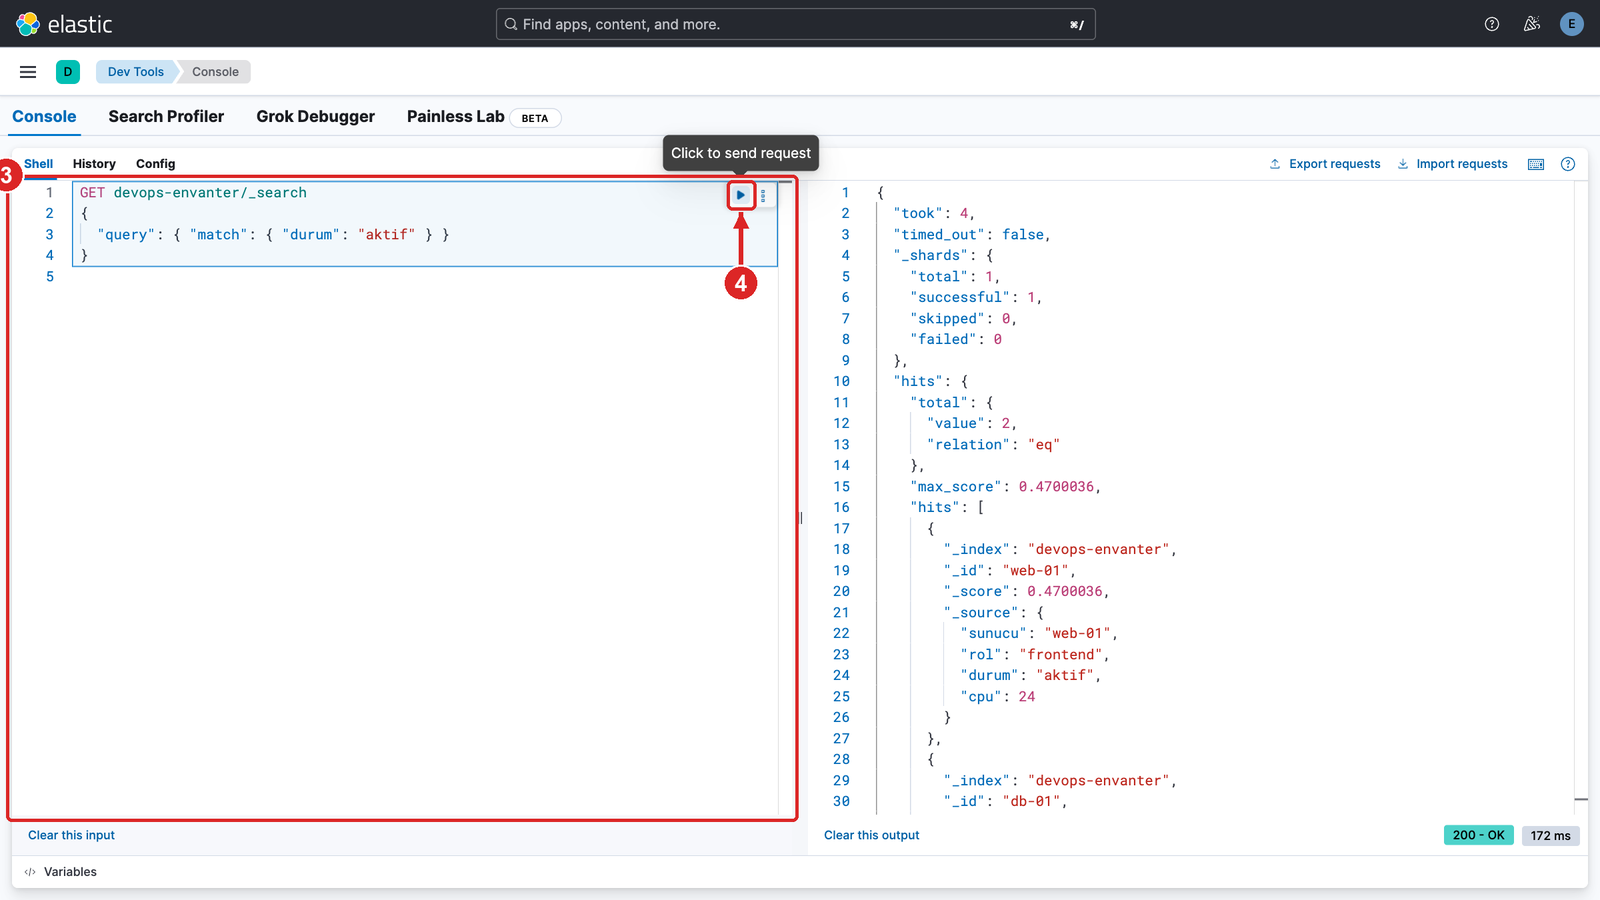
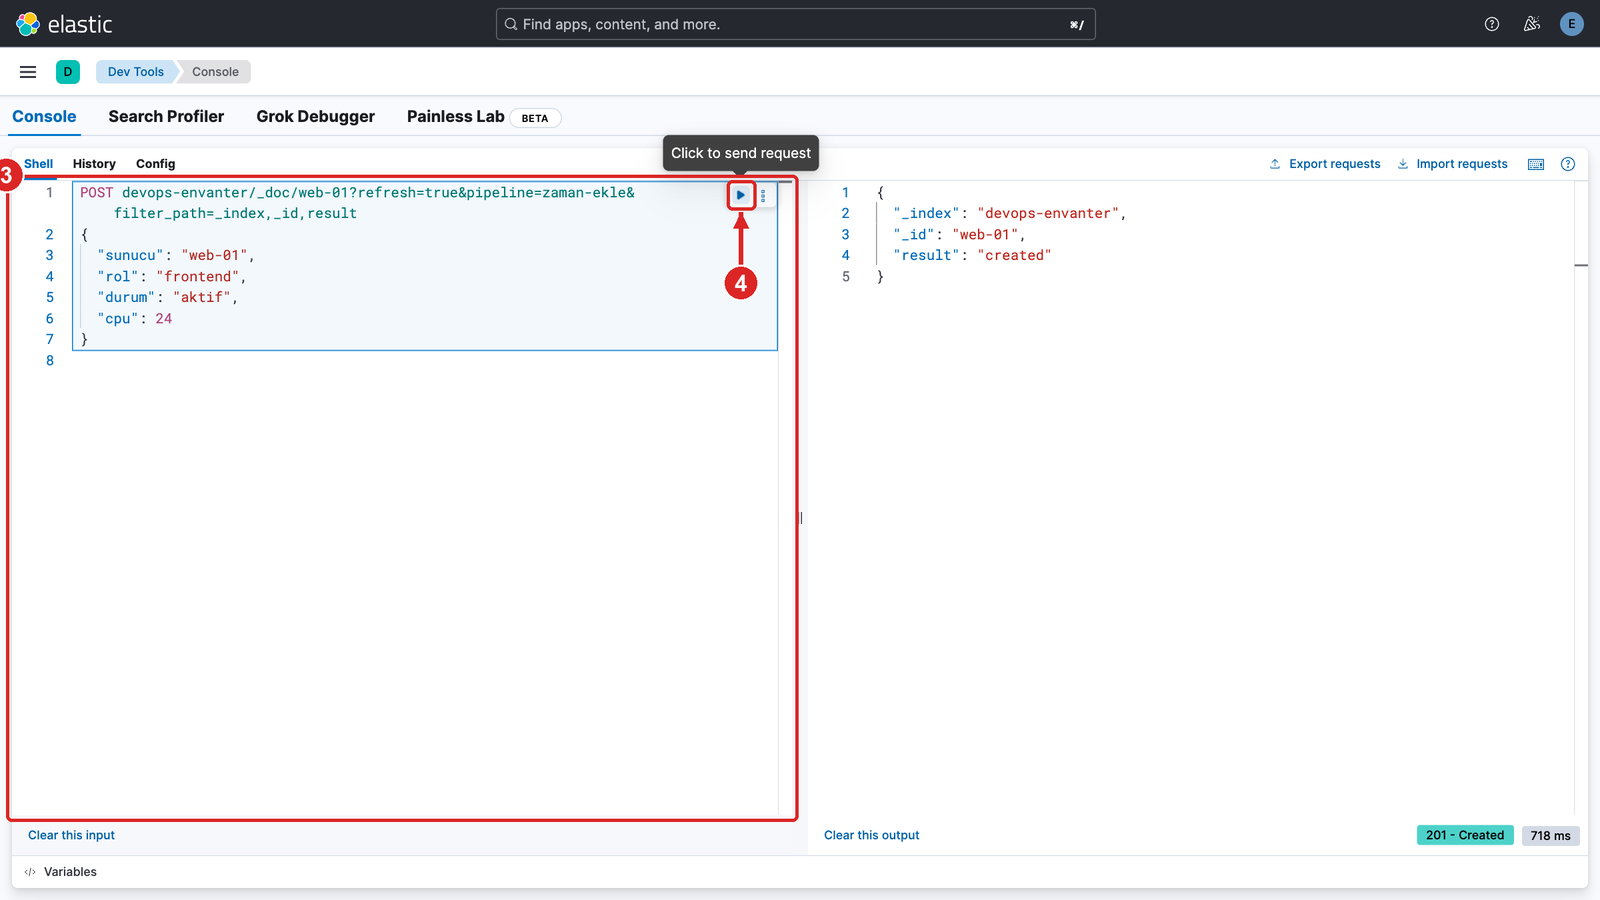
Restructure ELK labs: Kibana in every lab, sample data before ingestion
New order: 01 setup + Dev Tools + Discover, 02 sample data (KQL, ES|QL,
dashboards), 03 Filebeat, 04 grok + search + Lens, 05 Kubernetes,
06 SIEM, 07 cluster health/ILM.

- LAB-01: CRUD in Kibana Dev Tools; ingest pipeline adds @timestamp;
  data view + Discover; document without @timestamp shown missing
- LAB-02: demo-* data, 3 dashboards, Discover KQL, ES|QL in Discover
  and Dev Tools (real outputs, fixed seed)
- LAB-03: data views system-logs-* / docker-logs-*, raw message limits
- LAB-04: Grok Debugger, KQL/ES|QL on parsed fields, 2-panel Lens
  dashboard and its script copy (scripts/create_dashboard.py)
- LAB-05: k8s data view, Discover by app label, multiline doc view
- Text tightened: what each step does and why, no cross-lab deferrals

Bugs found in clean-server run and fixed:
- KQL `kubernetes.pod.name : payment-service*` returns nothing (text
  field); use `kubernetes.labels.app : "payment-service"`
- nginx ES|QL ran before new requests were indexed; added sleep 15
- search outputs now include pipeline @timestamp (real values)

Verification on student103 (clean install, README blocks + UI clicks):
01 18/18, 02 5/5, 03 8/9 (rc=255 = refused ssh, expected),
04 12/12, 05 9/9; 21 new/updated screenshots. 06 and 07 unchanged
since last full pass.

diff --git a/scripts/screenshots/kibana_shots.py b/scripts/screenshots/kibana_shots.py
@@ -229,8 +229,8 @@ def lab01b(page):
     page.get_by_role("option").filter(has_text=re.compile(r"^DevOps Envanter")).first.click(); settle(page, 6)
     shoot(page, lab, "04-discover", [
         (tid("discover-dataView-switch-link"), 10, "down"),
-        (tid("unifiedHistogramChart"), 11, "down"),
-        (tid("discoverDocTable"), 12, "up"),
+        (tid("unifiedHistogramChart"), 11, None),
+        (tid("discoverDocTable"), 12, None),
     ])
 
 
@@ -397,8 +397,8 @@ def lab05ui(page):
     kibana_delete_by_title(page, "index-pattern", "Kubernetes Logları")
     create_data_view_ui(page, "Kubernetes Logları", "k8s-logs-*")
     page.locator('[data-test-subj="saveIndexPatternButton"]').click(); settle(page, 4)
-    discover_with(page, "Kubernetes Logları", 'kubernetes.pod.name : payment-service* and message : "Traceback"', "now-1h")
-    page.locator('[data-test-subj="docTableExpandToggleColumn"]').first.click(); settle(page, 4)
+    discover_with(page, "Kubernetes Logları", 'kubernetes.labels.app : "payment-service" and message : "Traceback"', "now-2h")
+    page.get_by_role("button", name="Toggle dialog with details").first.click(); settle(page, 4)
     shoot(page, lab, "01-discover-k8s", [
         (tid("discover-dataView-switch-link"), 1, "down"),
         (tid("queryInput"), 2, "down"),

diff --git a/02-kibana-sample-data/README.md b/02-kibana-sample-data/README.md
@@ -17,7 +17,7 @@
 
 ## Mimari ve Çalışma Modeli
 
-Kendi loglarınızı toplamadan önce aramayı ve panoları zengin bir veriyle öğrenmek için örnek veri kullanılır. Veri sentetiktir ama gerçek loglara benzer: servis adları, HTTP durum kodları, yanıt süreleri, SSH denemeleri, pod olayları, pipeline sonuçları.
+Kendi loglarınızı toplamadan önce aramayı ve panoları hazır, gerçeğe benzer bir veriyle öğrenirsiniz.
 
 | Kavram | Ne işe yarar |
 |---|---|
@@ -31,8 +31,8 @@ Veriyi ve panoları `scripts/` klasöründeki iki betik kurar:
 
 | Betik | Ne yapar |
 |---|---|
-| `generate_demo_data.py` | Dört index'i (`demo-app-logs`, `demo-security-logs`, `demo-k8s-logs`, `demo-cicd-logs`) silip yeniden oluşturur ve son 24 saate yayılmış belgeler yazar. Alan türlerini (sayı, IP, keyword) baştan belirler; böylece gruplama ve aralık sorguları doğru çalışır. Sabit bir rastgele tohum kullandığı için sayılar her kurulumda aynıdır. |
-| `create_dashboards.py` | Dört data view'ı ve üç panoyu Kibana API'siyle kurar. Panelleri `lens_builder.py` ile üretir ve göndermeden önce doğrular. |
+| `generate_demo_data.py` | Dört `demo-*` index'ini yeniden oluşturur, son 24 saate yayılmış belgeler yazar. Alan türlerini baştan belirler; sayılar her kurulumda aynıdır. |
+| `create_dashboards.py` | Data view'ları ve üç panoyu Kibana API'siyle kurar. |
 
 ## Adım Adım Uygulama Rehberi
 
@@ -80,14 +80,14 @@ Kibana menüsünden **Analytics > Dashboards**'u açın. Üç pano listededir (1
 | Güvenlik: SSH ve Firewall | Kaç başarısız SSH girişi var, hangi IP'ler deniyor, hangi kullanıcı adları deneniyor? |
 | Kubernetes ve CI/CD | Kaç OOMKilled var, hangi namespace'te sorun var, pipeline'ların yüzde kaçı başarısız, hangi stage yavaş? |
 
-Zaman seçicisini (2) **Last 1 hour** yapın: bütün paneller aynı anda yalnız son bir saati gösterir. Bir grafikteki çubuğa tıklarsanız o değer bütün panoya filtre olarak eklenir; filtreyi üstteki çubuktan kaldırabilirsiniz.
+Zaman seçicisini (2) değiştirince bütün paneller birlikte güncellenir. Bir çubuğa tıklamak o değeri bütün panoya filtre olarak ekler.
 
 ### 3. Discover'da KQL ile arama
 
 1. Menüden **Analytics > Discover**'ı açın.
 2. Data view seçicisinden (4) **Demo Uygulama Logları**'nı seçin.
 3. Zaman aralığını (5) **Last 24 hours** yapın.
-4. Arama çubuğuna (6) aşağıdaki sorguyu yazıp Enter'a basın. Belge sayısı (7) ve zaman grafiği yalnız 5xx hatalarını gösterecek şekilde değişir:
+4. Arama çubuğuna (6) yazıp Enter'a basın; belge sayısı (7) yalnız 5xx hatalarını gösterir:
 
 ```text
 http.response.status_code >= 500
@@ -95,7 +95,7 @@ http.response.status_code >= 500
 
 ![Discover KQL](../assets/screenshots/LAB-ELK-02/03-discover-kql.png){width=75%}
 
-Başka sorgular deneyin. Her birinde sağ üstteki belge sayısının nasıl değiştiğine bakın:
+Başka sorgular deneyin:
 
 | Soru | KQL |
 |---|---|
@@ -108,12 +108,12 @@ KQL belgeleri süzer, ama "hangi servis kaç hata verdi" gibi sayım yapamaz. Bu
 
 ### 4. ES|QL ile hesaplama
 
-ES|QL sorgusu bir kaynakla (`FROM`) başlar ve her `|` sonrası komut bir öncekinin sonucunu işler: `WHERE` süzer, `STATS ... BY` gruplayıp hesaplar, `SORT` sıralar, `LIMIT` satır sayısını sınırlar.
+ES|QL `FROM` ile başlar; her `|` bir öncekinin sonucunu işler: `WHERE` süzer, `STATS ... BY` gruplayıp hesaplar, `SORT` sıralar, `LIMIT` sınırlar.
 
 **Discover'da:**
 
-1. Discover'da üstteki **Try ES|QL**'e (8, önceki görüntüde) tıklayın. Arama çubuğu ES|QL sorgu kutusuna dönüşür.
-2. Sorgu kutusuna (9) aşağıdaki sorguyu yazıp sağ üstteki **Refresh**'e (10) basın ya da `Ctrl+Enter` (Mac'te `Cmd+Enter`) kullanın. Sonuç belge listesi yerine tablo olarak gelir:
+1. Discover'da **Try ES|QL**'e (8, önceki görüntüde) tıklayın.
+2. Sorguyu kutuya (9) yazıp **Refresh**'e (10) ya da `Ctrl+Enter`'a basın; sonuç tablo olarak gelir:
 
 ```text
 FROM demo-app-logs
@@ -124,11 +124,11 @@ FROM demo-app-logs
 
 ![Discover ES|QL](../assets/screenshots/LAB-ELK-02/04-discover-esql.png){width=75%}
 
-Discover, sağ üstteki zaman aralığını (son 24 saat) ES|QL sorgusuna da uygular. Örnek veri tam 24 saate yayıldığı için en eski birkaç belge bu aralığın dışında kalır; bu yüzden Discover'daki sayılar aşağıda Dev Tools'ta göreceğiniz sayılardan biraz küçük olabilir. Discover'dan çıkıp **Classic**'e dönmek için sağ üstteki **Switch to classic**'e tıklayın.
+Discover zaman aralığını ES|QL'e de uygular; en eski birkaç belge dışarıda kaldığı için sayılar Dev Tools'takinden biraz küçük olabilir. Normal Discover'a **Switch to classic** ile dönersiniz.
 
-**Dev Tools'ta:** Aynı sorgular `_query` API'siyle de çalışır; `format=txt` sonucu tablo olarak verir. Dev Tools'taki sorguda zaman filtresi yoktur, bütün belgeler sayılır. Menüden **Management > Dev Tools**'u açıp istekleri tek tek çalıştırın.
+**Dev Tools'ta:** Aynı sorgular `_query` API'siyle çalışır; `format=txt` tablo verir, zaman filtresi yoktur.
 
-Servis başına 5xx hata sayısı (Discover'daki sorgunun aynısı):
+Servis başına 5xx hata sayısı:
 
 ```http
 POST _query?format=txt
@@ -147,7 +147,7 @@ POST _query?format=txt
 67             |frontend       
 ```
 
-En çok başarısız SSH girişi deneyen 5 IP. Sorgunun içindeki çift tırnaklar JSON içinde olduğu için `\"` ile yazılır:
+En çok başarısız SSH girişi deneyen 5 IP (JSON içindeki tırnaklar `\"` ile yazılır):
 
 ```http
 POST _query?format=txt
@@ -165,7 +165,7 @@ POST _query?format=txt
 224            |45.154.255.89  
 ```
 
-Endpoint başına istek sayısı ve p95 yanıt süresi. `PERCENTILE(..., 95)`, isteklerin yüzde 95'inin bu sürenin altında kaldığını söyler; ortalamadan farklı olarak yavaş isteklerin etkisini gizlemez:
+Endpoint başına istek sayısı ve p95 süre (isteklerin %95'i bu sürenin altında kalır; ortalama yavaş istekleri gizler, p95 gizlemez):
 
 ```http
 POST _query?format=txt
@@ -185,7 +185,7 @@ POST _query?format=txt
 492            |236.0          |/healthz        
 ```
 
-Bu üç tablo, Adım 2'deki panoda gördüğünüz panellerin arkasındaki hesaplamadır: "En çok 5xx veren servisler" ilk sorguyu, "Endpoint bazında istek ve p95 süre" üçüncü sorguyu çizer.
+Adım 2'deki panolar bu hesaplamaları çizer.
 
 ## Temizlik
 

diff --git a/03-filebeat-host-docker/README.md b/03-filebeat-host-docker/README.md
@@ -158,11 +158,11 @@ curl -s -u elastic:'DevOps2026!' "http://localhost:9200/docker-logs-*/_search?si
 
 ### 4. Logları Kibana'da görme
 
-Loglar Elasticsearch'te, ama Kibana onları henüz göstermez: Discover bir **data view** olmadan index okumaz. Her log kaynağı için bir data view oluşturun.
+Loglar Elasticsearch'te ama Discover bir **data view** olmadan göstermez. Her kaynak için bir data view oluşturun.
 
 1. Menüden **Management > Stack Management > Data Views**'a gidin ve **Create data view**'a tıklayın.
 2. **Name** (1): `Sistem Logları`
-3. **Index pattern** (2): `system-logs-*`. Logstash her gün yeni bir index açar (`system-logs-2026.11.19`, `system-logs-2026.11.20`…); `*` hepsini kapsar. Sağda eşleşen index listelenir.
+3. **Index pattern** (2): `system-logs-*` (Logstash her gün yeni index açar; `*` hepsini kapsar).
 4. **Timestamp field** (3): `@timestamp`.
 5. **Save data view to Kibana**'ya (4) tıklayın.
 
@@ -173,20 +173,20 @@ Loglar Elasticsearch'te, ama Kibana onları henüz göstermez: Discover bir **da
 Şimdi Discover'da arayın:
 
 1. Menüden **Analytics > Discover**'ı açın, data view seçicisinden (5) **Sistem Logları**'nı seçin.
-2. Zaman aralığını **Last 1 hour** yapın. Filebeat eski satırları da gönderdiği için daha geniş aralıkta binlerce satır görünür.
+2. Zaman aralığını **Last 1 hour** yapın.
 3. Arama çubuğuna (6) yazıp Enter'a basın:
 
 ```text
 message : "Invalid user"
 ```
 
-4. Sol listedeki alanlara (7) bakın: `message`, `log.file.path`, `fields.log_source`, `host.name` gibi Filebeat'in eklediği alanlar var, ama kullanıcı adı ya da IP için ayrı alan yok.
+4. Sol listedeki alanlara (7) bakın: kullanıcı adı ya da IP için ayrı alan yok, her şey `message` içinde.
 
    ![Discover sistem logları](../assets/screenshots/LAB-ELK-03/02-discover-system.png){width=75%}
 
-Bu ham hâlin sınırıdır: "Invalid user" geçen satırları bulabilirsiniz, ama "hangi IP kaç kez denedi" sorusunu soramazsınız; IP satırın içinde metin olarak durur. Bunun için satırın Logstash'te alanlara ayrılması gerekir.
+Satırları bulabilirsiniz ama "hangi IP kaç kez denedi" diye sayamazsınız; bunun için satırın Logstash'te alanlara ayrılması gerekir.
 
-Data view'ı **Docker Logları** yapın ve şu sorguyu deneyin; test container'ının üç satırı listelenir. `container.name` alanını Filebeat'in autodiscover özelliği eklediği için Docker loglarında container'a göre süzmek bu aşamada da mümkündür:
+Data view'ı **Docker Logları** yapıp container'a göre süzün (`container.name`'i Filebeat ekledi):
 
 ```text
 container.name : "demo-worker"

diff --git a/05-kubernetes-logs/README.md b/05-kubernetes-logs/README.md
@@ -171,17 +171,17 @@ curl -s -u elastic:'DevOps2026!' "http://localhost:9200/k8s-logs-*/_count?q=mess
 
 1. **Management > Stack Management > Data Views > Create data view** ile yeni data view oluşturun: **Name** `Kubernetes Logları`, **Index pattern** `k8s-logs-*`, **Timestamp field** `@timestamp`, **Save data view to Kibana**.
 2. **Analytics > Discover**'da data view olarak (1) **Kubernetes Logları**'nı seçin, zaman aralığını **Last 1 hour** yapın.
-3. Arama çubuğuna (2) yazıp Enter'a basın. `kubernetes.pod.name` alanını Filebeat'in Kubernetes metadata işlemcisi ekledi; `payment-service*` deployment'ın bütün pod'larını kapsar (pod adının sonundaki rastgele ek her yeniden başlatmada değişir):
+3. Arama çubuğuna (2) yazın. `kubernetes.labels.app`, pod'un `app` etiketidir ve deployment'ın bütün pod'larında aynıdır; pod adı ise her yeniden başlatmada değişir:
 
 ```text
-kubernetes.pod.name : payment-service* and message : "Traceback"
+kubernetes.labels.app : "payment-service" and message : "Traceback"
 ```
 
-4. Bir satırın solundaki ok simgesine tıklayıp belgeyi açın (3). `message` alanında hata yığınının dört satırı tek belgede alt alta durur; `kubernetes.namespace`, `kubernetes.node.name`, `kubernetes.container.name` alanları da aynı belgede.
+4. Bir satırı açın (3): `message` içinde hata yığınının dört satırı ve `kubernetes.*` alanları tek belgededir.
 
    ![Discover Kubernetes](../assets/screenshots/LAB-ELK-05/01-discover-k8s.png){width=75%}
 
-Pod'a, namespace'e ya da node'a göre süzmek, `kubectl logs` ile tek tek pod'a bakmaktan farklı olarak bütün cluster'ın logunu tek ekranda ve geçmişe dönük arar; pod silinse de logu Elasticsearch'te kalır.
+`kubectl logs`'tan farkı: bütün cluster'ın logu tek ekranda ve geçmişe dönük aranır; pod silinse de log kalır.
 
 ## Temizlik
 

diff --git a/04-logstash-grok/README.md b/04-logstash-grok/README.md
@@ -230,13 +230,35 @@ POST _query?format=txt
 }
 ```
 
+Örnek çıktı (bu sunucuda internetten gelen bir IP ve sizin denemeniz):
+
+```text
+    deneme     |   source.ip   
+---------------+---------------
+23             |109.160.32.132 
+1              |127.0.0.1      
+```
+
 Panoda veri olsun diye Nginx'e birkaç istek atın (`/` 200, diğerleri 404 döner):
 
 ```bash
 for p in / /urunler /sepet / /iletisim /urunler /; do
   curl -s -o /dev/null -w "%{http_code} $p\n" "http://localhost:8081$p"
 done
+sleep 15
 ```
+
+```text
+200 /
+404 /urunler
+404 /sepet
+200 /
+404 /iletisim
+404 /urunler
+200 /
+```
+
+`sleep 15`, istek satırlarının Filebeat ve Logstash üzerinden Elasticsearch'e ulaşması için süre tanır.
 
 Nginx isteklerini durum koduna göre sayın; `IS NOT NULL`, grok öncesi satırları dışarıda bırakır:
 
@@ -246,6 +268,8 @@ POST _query?format=txt
   "query": "FROM docker-logs-* | WHERE container.name == \"demo-nginx\" AND http.response.status_code IS NOT NULL | STATS istek = COUNT(*) BY http.response.status_code | SORT istek DESC"
 }
 ```
+
+Çıktıda iki satır görünür: `404` (döngüdeki 4 istek ve Adım 5'teki istek) ve `200` (ana sayfaya atılan 3 istek).
 
 ### 8. Lens ile pano
 
@@ -270,6 +294,12 @@ POST _query?format=txt
 ```bash
 cd ~/elk-lab/04-logstash-grok
 python3 scripts/create_dashboard.py
+```
+
+```text
+[+] Data view: Betik: Sistem Logları (system-logs-*)
+[+] Data view: Betik: Docker Logları (docker-logs-*)
+[+] Pano: SSH ve Nginx (betik)  ->  /app/dashboards#/view/grok-ssh-nginx
 ```
 
 **Analytics > Dashboards**'ta iki panoyu yan yana açın; aynı sayıları gösterirler.

diff --git a/01-elk-stack-setup/README.md b/01-elk-stack-setup/README.md
@@ -213,10 +213,11 @@ GET devops-envanter/_search?filter_path=hits.hits._source
     "hits": [
       {
         "_source": {
-          "sunucu": "web-01",
-          "rol": "frontend",
           "durum": "aktif",
-          "cpu": 24
+          "@timestamp": "2026-11-19T21:12:49.145021204Z",
+          "cpu": 24,
+          "sunucu": "web-01",
+          "rol": "frontend"
         }
       }
     ]
@@ -239,10 +240,11 @@ GET devops-envanter/_search?filter_path=hits.hits._source
     "hits": [
       {
         "_source": {
-          "sunucu": "db-01",
-          "rol": "database",
           "durum": "bakimda",
-          "cpu": 71
+          "@timestamp": "2026-11-19T21:12:57.622635981Z",
+          "cpu": 71,
+          "sunucu": "db-01",
+          "rol": "database"
         }
       }
     ]
@@ -265,7 +267,7 @@ POST devops-envanter/_update/db-01?refresh=true&filter_path=result
 }
 ```
 
-Belgeyi kimliğiyle okuyun:
+Belgeyi kimliğiyle okuyun. `@timestamp` pipeline'ın eklediği kayıt anıdır; sizde farklı olur:
 
 ```http
 GET devops-envanter/_doc/db-01?filter_path=_source
@@ -274,10 +276,11 @@ GET devops-envanter/_doc/db-01?filter_path=_source
 ```text
 {
   "_source": {
-    "sunucu": "db-01",
-    "rol": "database",
     "durum": "aktif",
-    "cpu": 71
+    "@timestamp": "2026-11-19T21:12:57.622635981Z",
+    "cpu": 71,
+    "sunucu": "db-01",
+    "rol": "database"
   }
 }
 ```
